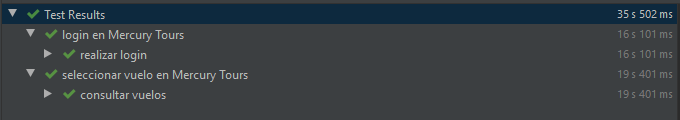
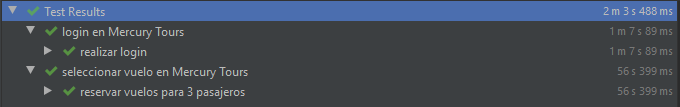
Se agregan nuevas pruebas deacuerdo a requerimientos

diff --git a/ui_testing/tests/vuelos.py b/ui_testing/tests/vuelos.py
@@ -24,57 +24,95 @@ class VuelosTest(unittest.TestCase):
         self.driver.find_element_by_css_selector("font:nth-child(1) > input:nth-child(2)").click()
 
     def test_numero_pasajeros(self, numero):
-        elem = self.driver.find_element_by_name("passCount")
-        dropdown = Select(elem)
-        dropdown.select_by_value(numero)
-
+        self.select("passCount", numero)
 
     def test_seleccionar_partida(self, partida):
-        elem = self.driver.find_element_by_name("fromPort")
-        dropdown = Select(elem)
-        dropdown.select_by_value(partida)
+        self.select("fromPort", partida)
 
     def test_seleccionar_fecha_partida(self, mes, dia):
-        elem_mes = self.driver.find_element_by_name("fromMonth")
-        dropdown = Select(elem_mes)
-        dropdown.select_by_visible_text(mes)
-        elem_dia = self.driver.find_element_by_name("fromDay")
-        dropdown = Select(elem_dia)
-        dropdown.select_by_value(dia)
+        self.select("fromMonth", mes)
+        self.select("fromDay", dia)
 
     def test_seleccionar_llegada(self, llegada):
-        elem = self.driver.find_element_by_name("toPort")
-        dropdown = Select(elem)
-        dropdown.select_by_value(llegada)
+        self.select("toPort", llegada)
 
     def test_seleccionar_fecha_retorno(self, mes, dia):
-        elem_mes = self.driver.find_element_by_name("toMonth")
-        dropdown = Select(elem_mes)
-        dropdown.select_by_visible_text(mes)
-        elem_dia = self.driver.find_element_by_name("toDay")
-        dropdown = Select(elem_dia)
-        dropdown.select_by_value(dia)
+        self.select("toMonth", mes)
+        self.select("toDay", dia)
 
     def test_seleccionar_clase(self):
         self.driver.find_element_by_css_selector("font:nth-child(2) > input:nth-child(2)").click()
 
     def test_seleccionar_aerolinea(self, aerolinea):
-        elem = self.driver.find_element_by_name("airline")
-        dropdown = Select(elem)
-        dropdown.select_by_visible_text(aerolinea)
+        self.select("airline", aerolinea)
 
     def test_enviar_formulario(self):
         self.driver.find_element_by_name("findFlights").click()
         time.sleep(2)
 
-    def test_validar_respuesta(self):
-        elem = self.driver.find_element_by_name("results")
+    def test_ida_costoso(self):
+        self.driver.find_element_by_css_selector("table:nth-child(9) tr:nth-child(9) input").click()
+
+    def test_retorno_costoso(self):
+        self.driver.find_element_by_css_selector("table:nth-child(10) tr:nth-child(9) input").click()
+
+    def test_enviar_seleccion(self):
+        self.driver.find_element_by_name("reserveFlights").click()
+        time.sleep(2)
+
+    def test_pasajero_numero(self, numero, nombre, apellido, comida):
+        num = int(numero) - 1
+        self.driver.find_element_by_name("passFirst" + str(num)).send_keys(nombre)
+        self.driver.find_element_by_name("passLast" + str(num)).send_keys(apellido)
+        self.select("pass." + str(num) + ".meal", comida)
+
+    def test_tarjeta_tipo(self, tipo):
+        self.select("creditCard", tipo)
+
+    def test_tarjeta_numero(self, numero):
+        self.driver.find_element_by_name("creditnumber").send_keys(numero)
+
+    def test_tarjeta_fecha(self, mes, year):
+        self.select("cc_exp_dt_mn", mes)
+        self.select("cc_exp_dt_yr", year)
+
+    def test_tarjeta_nombre(self, nombre, apellido):
+        self.driver.find_element_by_name("cc_frst_name").send_keys(nombre)
+        self.driver.find_element_by_name("cc_last_name").send_keys(apellido)
+
+    def test_direccion_facturacion(self, direccion):
+        self.driver.find_element_by_name("billAddress1").send_keys(direccion)
+
+    def test_ciudad_facturacion(self, ciudad):
+        self.driver.find_element_by_name("billCity").send_keys(ciudad)
+
+    def test_estado_facturacion(self, estado):
+        self.driver.find_element_by_name("billState").send_keys(estado)
+
+    def test_codigo_postal_facturacion(self, codigo):
+        self.driver.find_element_by_name("billZip").send_keys(codigo)
+
+    def test_pais_facturacion(self, pais):
+        self.select("delCountry", pais)
+
+    def test_entrega(self):
+        self.driver.find_element_by_css_selector("tr:nth-child(14) input").click()
+
+    def test_enviar_datos(self):
+        self.driver.find_element_by_name("buyFlights").click()
+
+    def test_validar_reserva(self):
+        elem = self.driver.find_element_by_css_selector("td:nth-child(1) tr:nth-child(1) > td:nth-child(1) > img:nth-child(1)")
         self.assertTrue(elem)
 
     def close(self):
         self.driver.quit()
         print("prueba completada con éxito")
 
+    def select(self, id, valor):
+        elem = self.driver.find_element_by_name(id)
+        dropdown = Select(elem)
+        dropdown.select_by_visible_text(valor)
 
 if __name__ == '__main__':
     unittest.main()

diff --git a/ui_testing/behaviours/steps/vuelos_steps.py b/ui_testing/behaviours/steps/vuelos_steps.py
@@ -58,12 +58,92 @@ def step_impl(context, aerolinea):
     vuelos.test_seleccionar_aerolinea(aerolinea)
 
 
-@when(u'envio el formulario')
+@when(u'envio el formulario de busqueda de vuelo')
 def step_impl(context):
     vuelos.test_enviar_formulario()
 
 
 @then(u'El sistema me retorna vuelos')
 def step_impl(context):
-    vuelos.test_validar_respuesta()
+    vuelos.test_validar_reserva()
     vuelos.close()
+
+
+@step("selecciono el vuelo de ida mas costoso")
+def step_impl(context):
+    vuelos.test_ida_costoso()
+
+
+@step("selecciono el vuelo de retorno mas costoso")
+def step_impl(context):
+    vuelos.test_retorno_costoso()
+
+
+@step("envio las seleccion de vuelos")
+def step_impl(context):
+    vuelos.test_enviar_seleccion()
+
+
+@step(
+    'ingreso la informacion del pasajero "{numero}" con nombre "{nombre}" apellido "{apellido}" y selecciono la opcion  de comida "{comida}"')
+def step_impl(context, numero, nombre, apellido, comida):
+    vuelos.test_pasajero_numero(numero, nombre, apellido, comida)
+
+
+@step('selecciono la opcion de tarjeta "{tipo}"')
+def step_impl(context, tipo):
+    vuelos.test_tarjeta_tipo(tipo)
+
+
+@step('ingreso el numero de tarjeta "{numero}"')
+def step_impl(context, numero):
+    vuelos.test_tarjeta_numero(numero)
+
+
+@step('ingreso la fecha de expiracion de la tarjeta mes "{mes}" year "{year}"')
+def step_impl(context, mes, year):
+    vuelos.test_tarjeta_fecha(mes, year)
+
+
+@step('ingreso el nombre de la tarjeta "{nombre}" apellido "{apellido}"')
+def step_impl(context, nombre, apellido):
+    vuelos.test_tarjeta_nombre(nombre, apellido)
+
+
+@step('ingreso la direccion de facturacion "{direccion}"')
+def step_impl(context, direccion):
+    vuelos.test_direccion_facturacion(direccion)
+
+
+@step('ingreso la ciudad de facturacion "{ciudad}')
+def step_impl(context, ciudad):
+    vuelos.test_ciudad_facturacion(ciudad)
+
+@step('ingreso el estado de facturacion "{estado}"')
+def step_impl(context, estado):
+    vuelos.test_estado_facturacion(estado)
+
+
+@step('ingreso el codigo postal de facturacion "{numero}"')
+def step_impl(context, numero):
+    vuelos.test_codigo_postal_facturacion(numero)
+
+
+@step('ingreso el pais de facturacion "{pais}"')
+def step_impl(context, pais):
+    vuelos.test_estado_facturacion(pais)
+
+
+@step("selecciono la opcion de entrega como la misma de facturacion")
+def step_impl(context):
+    vuelos.test_entrega()
+
+
+@step("envio el formulario de compra")
+def step_impl(context):
+    vuelos.test_enviar_datos()
+
+
+@then("El sistema me retorna la verificacion de la reserva")
+def step_impl(context):
+    vuelos.test_validar_reserva()

diff --git a/taller_test/behaviours/steps/authors_steps.py b/taller_test/behaviours/steps/authors_steps.py
@@ -59,3 +59,13 @@ def step_impl(context, id):
 @then("el autor se elimina")
 def step_impl(context):
     test.test_validate_status_code(200)
+
+
+@when('consulto un libro de un autor con id "{id}"')
+def step_impl(context, id):
+    test.test_get_libro_author(id)
+
+
+@then("trae la informacion del libro de ese autor")
+def step_impl(context):
+    test.test_validate_status_code(200)

diff --git a/taller_test/tests/tests_authors.py b/taller_test/tests/tests_authors.py
@@ -12,6 +12,9 @@ class ApiRequestsAuthors(unittest.TestCase):
     def test_get_author(self, id):
         self.response = act.get_author(id)
 
+    def test_get_libro_author(self, id):
+        self.response = act.get_author(id)
+
     def test_create_author(self, id, nombre):
         self.response = act.create_author(id, nombre, self.now, True)
 

diff --git a/taller_test/core/api_authors.py b/taller_test/core/api_authors.py
@@ -15,6 +15,11 @@ def get_author(id):
     return peticion
 
 
+def get_libro_author(id):
+    endpoint = "/authors/books/{}".format(str(id))
+    peticion = requests.get(url + endpoint)
+    return peticion
+
 def create_author(id, author_name, date, status):
     endpoint = "/authors"
     headers = {"Content-Type": "application/json"}
